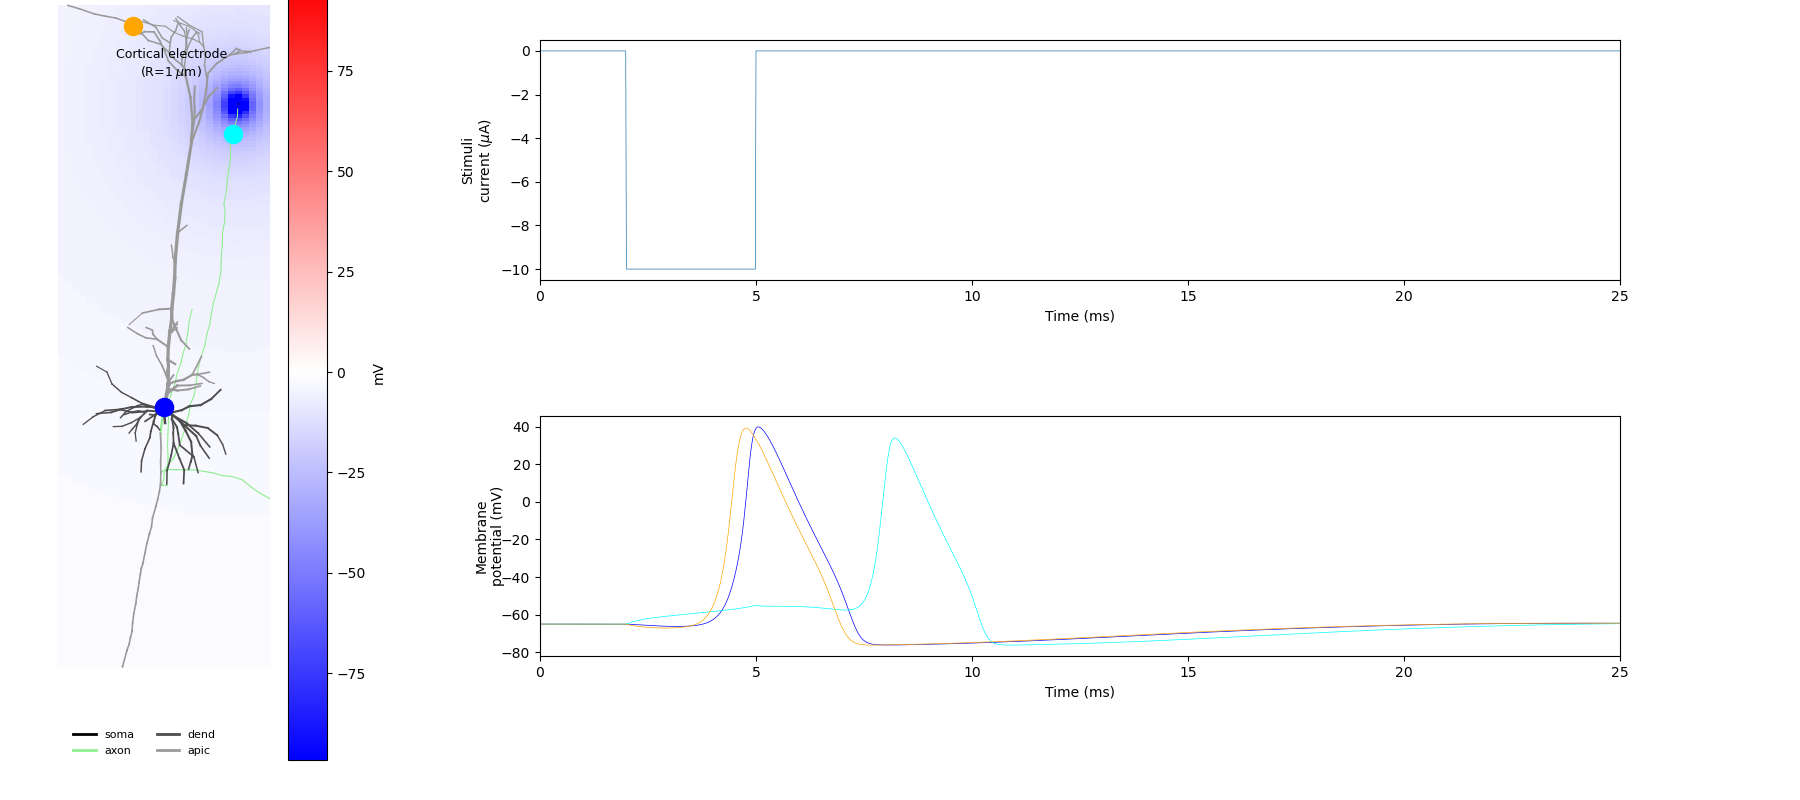
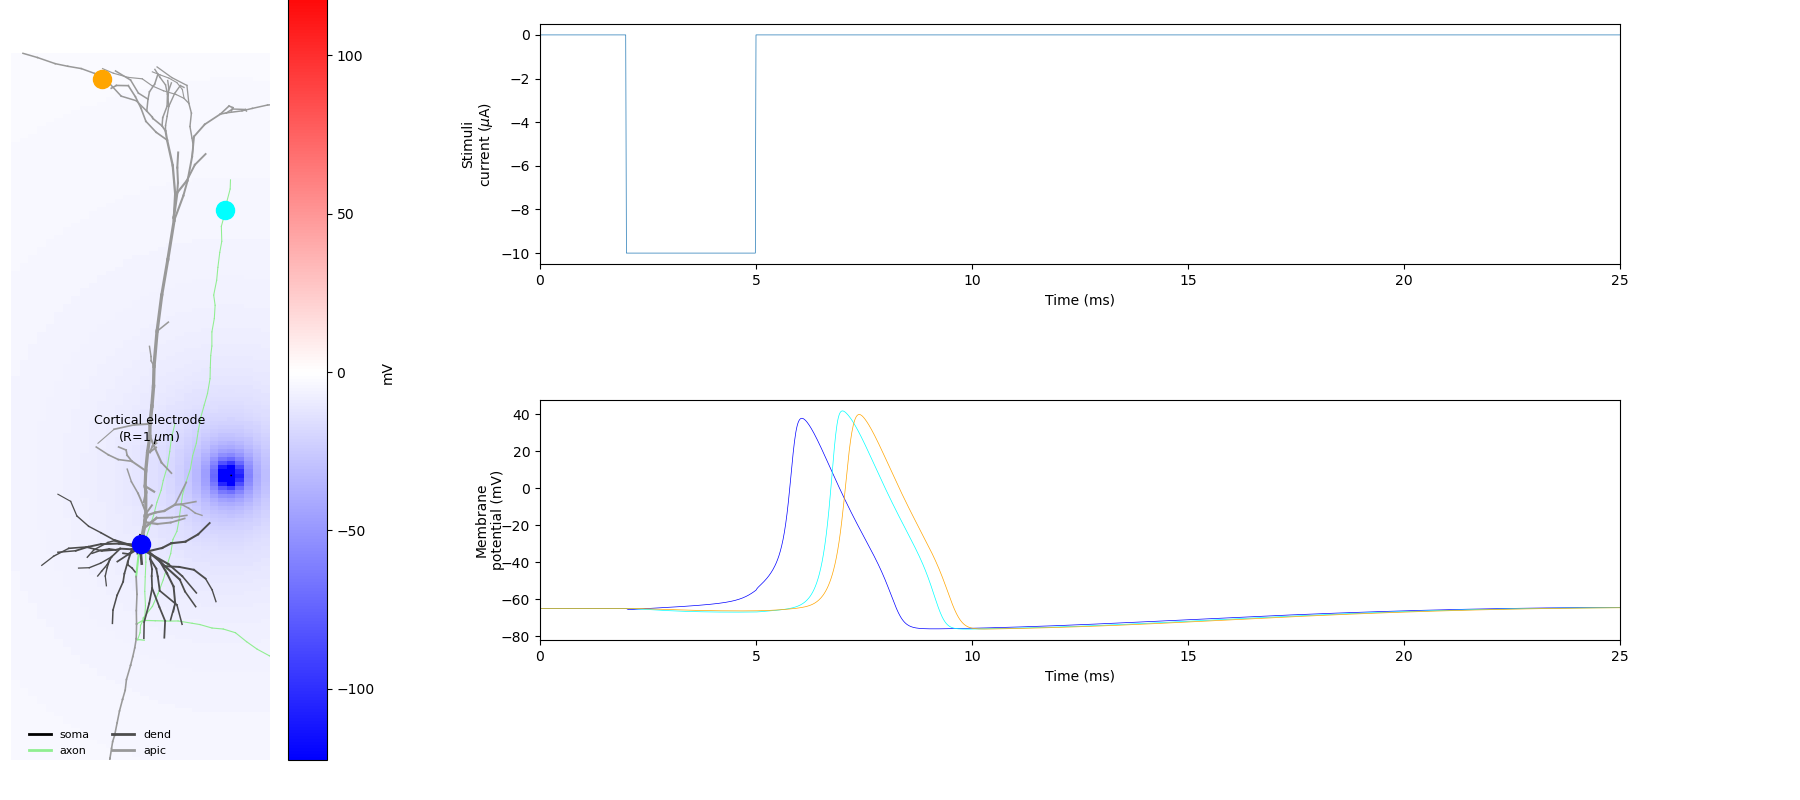
Adjusting plot parameters for nicer morphology figure

diff --git a/main.py b/main.py
@@ -132,12 +132,12 @@ class ExternalPotentialSim:
 
         # Defining figure frame and parameters
         fig = plt.figure(figsize=[18, 8])
-        fig.subplots_adjust(hspace=0.5, left=0.0, wspace=0.4, right=0.96,
+        fig.subplots_adjust(hspace=0.5, left=0.0, wspace=0.5, right=0.96,
                             top=0.97, bottom=0.1)
 
         # Adding axes with appropriate parameters
         ax_m = fig.add_axes([-0.01, 0.05, 0.2, 0.97], aspect=1, frameon=False,
-                            xticks=[], yticks=[], ylim=[-1900, 300], xlim=[-300, 300])
+                            xticks=[], yticks=[], ylim=[-700, 1100], xlim=[-300, 300])
 
         # Names of different neuron parts and color codings for each
         possible_names = ["Myelin", "axon", "Unmyelin", "Node", "hilloc",
@@ -207,8 +207,12 @@ class ExternalPotentialSim:
                    origin='lower', interpolation='nearest', cmap='bwr', vmin=-vmax, vmax=vmax)
 
         plt.colorbar(label='mV')
+        # [plt.plot([self.cell.xstart[idx], self.cell.xend[idx]], [self.cell.zstart[idx], self.cell.zend[idx]], c='gray', zorder=1)
+        #  for idx in range(self.cell.totnsegs)]
+        # [plt.plot(self.cell.xmid[idx], self.cell.zmid[idx], 'o', c=cell_plot_colors[idx], ms=12)
+        #  for idx in cell_plot_idxs]
 
-        ax_top = 0.95
+        ax_top = 0.97
         ax_h = 0.30
         ax_w = 0.6
         ax_left = 0.3
@@ -229,7 +233,7 @@ class ExternalPotentialSim:
         [ax_vm.plot(self.cell.tvec, self.cell.vmem[idx],
                     c=cell_plot_colors[idx], lw=0.5) for idx in cell_plot_idxs]
 
-        # plt.show()
+        plt.show()
         if not os.path.isdir(self.save_folder):
             os.makedirs(self.save_folder)
 
@@ -238,13 +242,6 @@ class ExternalPotentialSim:
 
     def plot_axialCurrent(self):
 
-        fig = plt.figure()
-        fig.subplots_adjust(hspace=0.5, left=0.0, wspace=0.4, right=0.96,
-                            top=0.97, bottom=0.1)
-
-        ax_stick = fig.add_axes([0.1, 0.75, 0.8, 0.20], xlim=[0, 100])
-        ax_start = fig.add_axes([0.1, 0.4, 0.8, 0.20], xlim=[0, 100])
-        ax_start = fig.add_axes([0.1, 0.2, 0.8, 0.20], xlim=[0, 100])
-        ax_start = fig.add_axes([0.1, 0.0, 0.8, 0.20], xlim=[0, 100])
+        fig, axes = plt.subplots(4, 1, sharex=True)
 
         plt.show()

diff --git a/axon_single_source_pulse.py b/axon_single_source_pulse.py
@@ -32,7 +32,7 @@ Improve plot_cellsim_alt for easy reading and page formatting.
 cell_models_folder = join(os.path.dirname(__file__), "cell_models")
 
 
-def run_ext_sim(cellsimParams, elec_params, I, positions, passive=False):
+def run_ext_sim(cellsimParams, elec_params, I, positions, measure_idxs, passive=False):
 
     extPotSim = ExternalPotentialSim(cellsimParams)
     extPotSim.return_cell(cell_models_folder)
@@ -49,22 +49,30 @@ def run_ext_sim(cellsimParams, elec_params, I, positions, passive=False):
 
             monophasic_pulse_params['positions'] = pos
             extPotSim.extra_cellular_stimuli(monophasic_pulse_params)
-            extPotSim.plot_cellsim(np.array([0, 83, 300]))
+            extPotSim.plot_cellsim(measure_idxs)
+
+    I = None
+    pos = None
+    # LFPy.cell.neuron.h("forall delete_section()")
 
 
 # Test parameters
-current_amps = [1e4, -1e4, 5e3]  # uA
+# current_amps = [1e4, -1e4, 5e3]  # uA
 # positions = [np.array([[200, 0, -40], ], dtype=float),
 #              np.array([[200, 0, 0], ], dtype=float),
 #              np.array([[-125, 0, -880], ], dtype=float),
 #              np.array([[-230, 0, 175], ], dtype=float)]
-# current_amps = [-1e4]  # uA
-positions = [np.array([[210, 0, -40], ], dtype=float)]
-cellsim_Hallermann_params['cell_dist_to_top'] = 900
+current_amps = [-1e4]  # uA
+positions = [np.array([[210, 0, 700], ], dtype=float)]
+# cellsim_Hallermann_params['cell_dist_to_top'] = 900
 
 
 run_ext_sim(cellsim_Hallermann_params,
-            monophasic_pulse_params, current_amps, positions)
+            monophasic_pulse_params, current_amps, positions, np.array([0, 83, 300]))
+
+run_ext_sim(cellsim_bisc_stick_params,
+            monophasic_pulse_params, current_amps, positions, np.array([0, 20, 48]))
+
 
 # extPotSim = ExternalPotentialSim(cellsim_bisc_stick_params)
 # extPotSim.plot_axialCurrent()

diff --git a/parameters.py b/parameters.py
@@ -3,7 +3,7 @@ cortex_top = 0
 
 
 positions = np.array([[200, 0, -40], ], dtype=float)
-cell_dist_to_top = 20
+cell_dist_to_top = 200
 bisc_radius = 8
 bisc_elec_pitch = 26  # um
 np.random.seed(1234)
